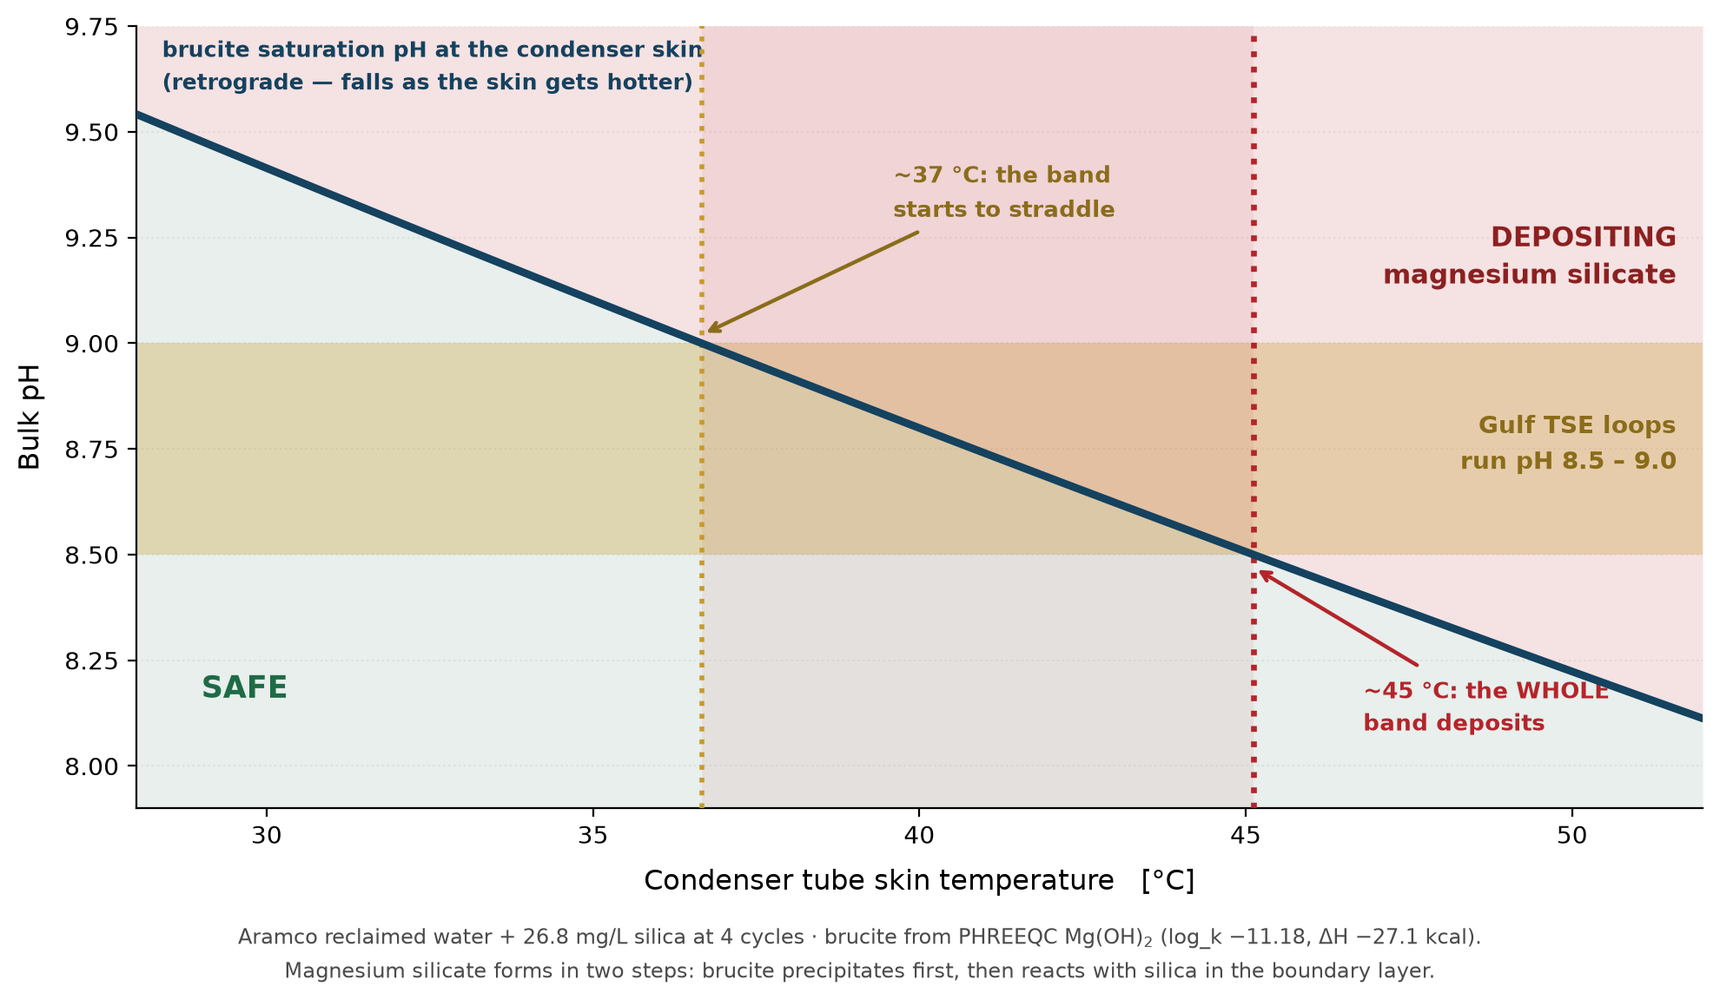
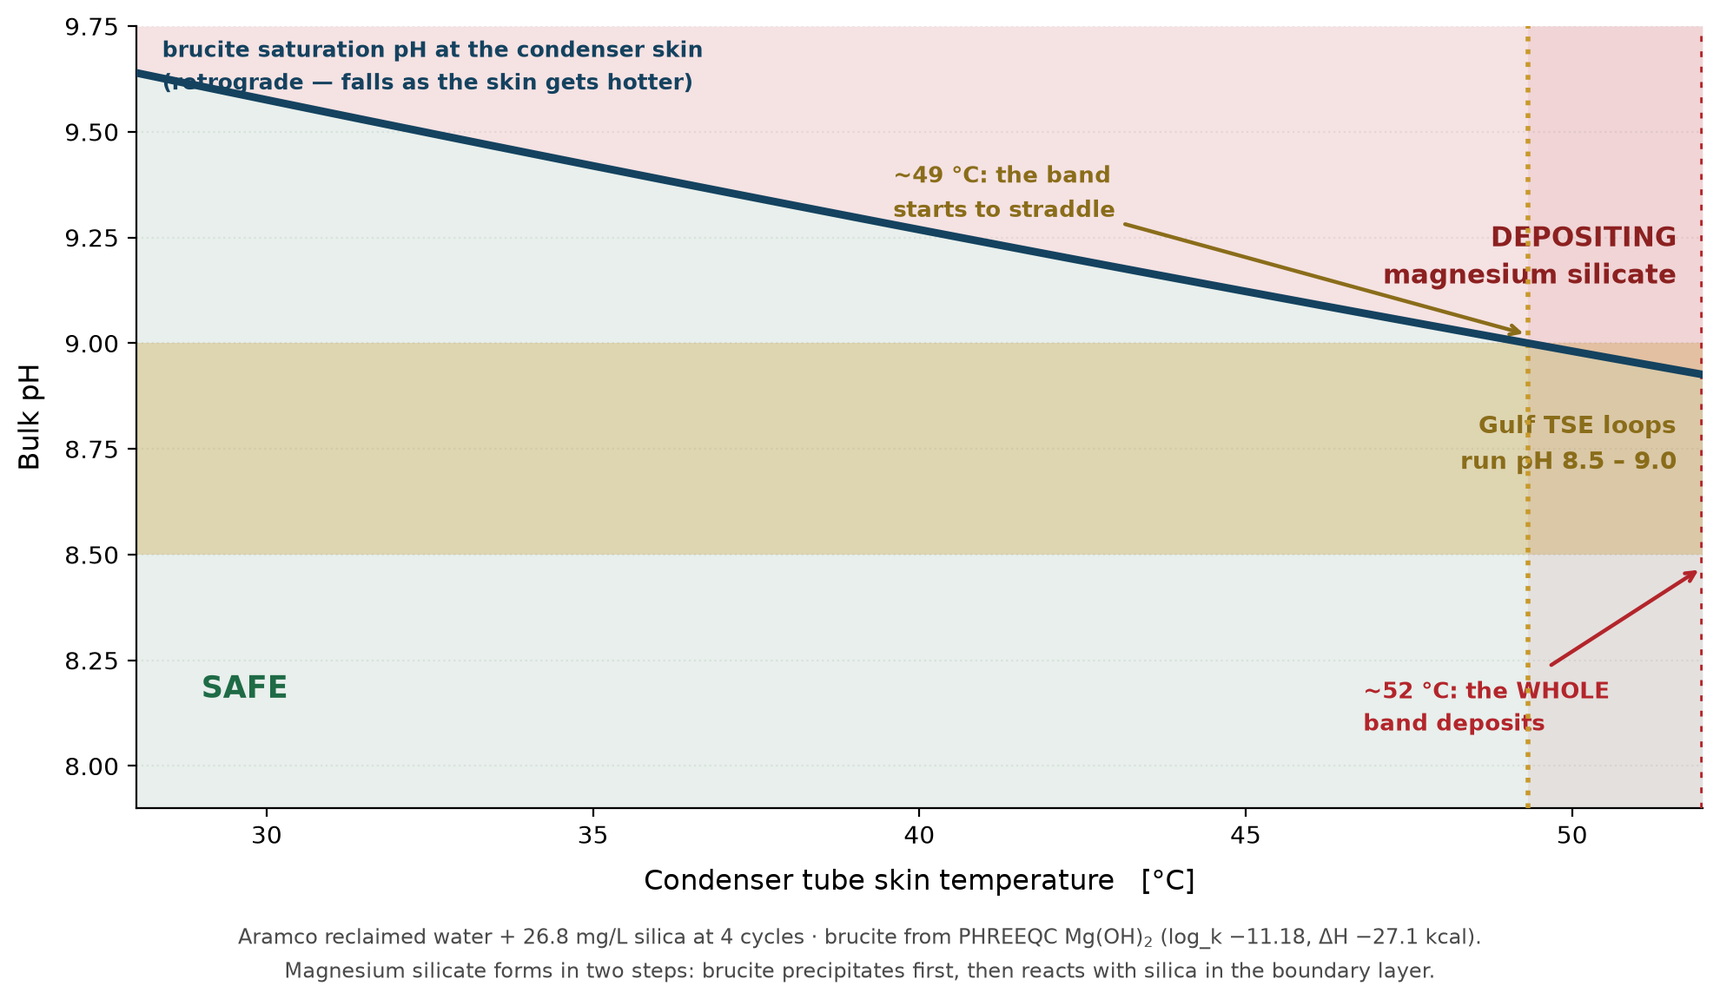
Regenerate the derived artefacts and reconcile their generators
docs/poc_report.md is regenerated rather than hand-edited, because the
Layout note says docs/ is never hand-edited and the hand edits had been
reverting. Regenerating alone would have reintroduced two errors, so
src/make_report.py is corrected first and both are now derived:

  - the model-selection paragraph asserted in hardcoded prose that the
    best-scoring fill law was rejected, and by exactly 0.025 K. On the
    de-duplicated holdout the adopted law wins outright (0.600 K against
    a closest rival of 0.608 K), so the sentence had stopped describing
    the table printed directly above it. Both branches are now written
    from the artefact, and the physical argument for the choice, which
    is unchanged, is stated as the reason it no longer costs anything.
  - the open-items row named gypsum as the binding mineral from a
    literal. It is read from controller_summary.json now, which is what
    the hand edit had been trying to say.

It also no longer crashes on a corrected artefact: the per-campaign loop
iterated a typed ("Exp1", "Exp2", "Exp3") list.

results/v2_diagnosis.json loses its Exp3 entry. Exp3.nc repeats Exp1
rows 0-16 exactly, so it is not a campaign. This is a hand edit to an
artefact no script can regenerate, which is defect 74's second instance,
and the register says so where the table is printed. The 23.5 % spread
the audit checks is unchanged, because Exp1 and Exp2 were always the two
extremes.
[…]

diff --git a/src/make_report.py b/src/make_report.py
@@ -254,7 +254,11 @@ def main():
       A("")
       A("| Campaign | Identified c | Identified n | Outlet MAE | Evaporation MAPE |")
       A("|---|---|---|---|---|")
-      for cp in ("Exp1", "Exp2", "Exp3"):
+      # DEFECT 51/70: Exp3.nc repeats Exp1 rows 0-16 exactly, so it is not a
+      # campaign and is no longer an entry in the artefact. Iterate what the
+      # file actually holds rather than a typed list, or this generator
+      # crashes the moment the artefact is corrected.
+      for cp in sorted(v2d):
           r = v2d[cp]
           A(f"| {cp} | {r['c']:.4f} | {r['n']:.4f} | "
             f"{r['Tout_MAE_K']:.3f} K | {r['evap_MAPE_pct']:.2f} % |")
@@ -265,7 +269,7 @@ def main():
       f"used** -- worst case {worst:.2f} %. The bleed hypothesis is "
       f"rejected: a bleed would have been untouched by re-identification. "
       f"The identified fill coefficient moves "
-      f"{100*(max(cs)-min(cs))/min(cs):.1f} % across the three campaigns, "
+      f"{100*(max(cs)-min(cs))/min(cs):.1f} % across the {len(cs)} campaigns, "
       f"which is the same drift already measured in the thermal channel and "
       f"is now confirmed independently in the water channel.")
       A("")
@@ -454,13 +458,33 @@ def main():
           "asserted, and it answers the R² question directly: the scatter "
           "is experimental, not a deficient functional form.")
         A("")
-        A(f"**The form that scores best on MAE was rejected.** "
-          f"{fld['best_by_MAE']} reaches {fld['best_MAE_K']:.3f} K against "
-          f"{fld['adopted_MAE_K']:.3f} K for the adopted law — a gain of "
-          "0.025 K on a ~0.5 K error, bought while making RMSE *worse* by "
-          "0.048 K. It reduces typical error and increases large error, which "
-          "is a differently-shaped error distribution rather than a better "
-          "model.")
+        # DEFECT 51. This paragraph used to assert, in hardcoded prose, that
+        # the best-scoring form was rejected and by exactly how much. On the
+        # de-duplicated holdout the adopted law scores best outright, so the
+        # assertion had stopped describing the table printed directly above
+        # it -- the defect-19/23/28 shape, prose outliving the number beneath
+        # it. Both branches are now derived from the artefact.
+        _best, _adopted = fld["best_MAE_K"], fld["adopted_MAE_K"]
+        if fld["best_by_MAE"] == fld["adopted"] or _best >= _adopted - 1e-9:
+            _rival = fl[fl.model != fld["adopted"]]["holdout_MAE_K"].min()
+            A(f"**The adopted form also scores best on the holdout.** "
+              f"{fld['adopted']} reaches {_adopted:.3f} K, and the closest "
+              f"rival is {_rival:.3f} K. That was NOT true on the 50-row "
+              f"holdout, where a wet-bulb form scored 0.517 K against the "
+              f"adopted law's 0.542 K and was rejected on the physical "
+              f"argument below alone. De-duplicating the holdout (defect 51) "
+              f"removed 18 repeated measurements and one training row, and "
+              f"the ranking changed with them. The physical argument is "
+              f"unchanged and is still the reason for the choice — it simply "
+              f"no longer costs anything.")
+        else:
+            A(f"**The form that scores best on MAE was rejected.** "
+              f"{fld['best_by_MAE']} reaches {_best:.3f} K against "
+              f"{_adopted:.3f} K for the adopted law — a gain of "
+              f"{_adopted - _best:.3f} K on a ~0.5 K error. It reduces "
+              f"typical error and increases large error, which is a "
+              f"differently-shaped error distribution rather than a better "
+              f"model.")
         A("")
         A("The deciding objection is physical, not statistical. A Merkel "
           "number is a property of the fill's heat-and-mass-transfer "
@@ -1048,11 +1072,22 @@ def main():
       "us | Heated-coupon side-stream rig |")
     _wpct = ctrl["summary"]["water_pct"] if ctrl else float("nan")
     _wall = ctrl["summary"]["physical_ceiling_cycles"] if ctrl else 8
+    # The binding mineral is READ from the artefact, not remembered. It was
+    # gypsum when this row was written and the corrected speciation moved it
+    # to amorphous silica without moving the ceiling; a hand edit to the
+    # generated document kept reverting, which is defect 12's shape.
+    _mineral = (ctrl["summary"].get("binding_mineral") if ctrl else None) or ""
+    _mineral_words = {"SI_silica_am": "**amorphous silica**",
+                      "SI_gypsum": "**gypsum**",
+                      "SI_calcite": "**calcite**"}.get(_mineral, _mineral or "the binding mineral")
     A(f"| Makeup water reduction missed its pre-registered 15 % threshold "
       f"({_wpct:.2f} %) | **Against us** — reported as a failure rather than "
-      f"rescored. Now diagnosed: 15 % requires 8.5 cycles and gypsum "
-      f"saturates at {_wall}, so the threshold was written beyond the "
-      f"physical ceiling | Nothing: the threshold stands as written |")
+      f"rescored. Now diagnosed: 15 % requires roughly 8.5 cycles and "
+      f"{_mineral_words} saturates at {_wall}, so the threshold was written "
+      f"beyond the physical ceiling. (The binding mineral was believed to be "
+      f"gypsum when this row was first written; correcting the speciation "
+      f"moved it without moving the ceiling.) | Nothing: the threshold stands "
+      f"as written |")
     A("| Fill characteristic identified on one tower | **Neutral** — "
       "the characteristic form transfers, the coefficients do not, and "
       "per-site calibration is part of the product | Second rig, and the "

diff --git a/docs/poc_report.md b/docs/poc_report.md
@@ -89,9 +89,8 @@ A fixed bleed would give a shortfall proportional to circulating flow; a model d
 |---|---|---|---|---|
 | Exp1 | 1.5320 | -0.6015 | 0.280 K | 6.55 % |
 | Exp2 | 1.2401 | -0.5014 | 0.454 K | 7.80 % |
-| Exp3 | 1.3826 | -0.4293 | 0.262 K | 4.50 % |
 
-**Every campaign falls inside the 8 % gate once its own fill law is used** -- worst case 7.80 %. The bleed hypothesis is rejected: a bleed would have been untouched by re-identification. The identified fill coefficient moves 23.5 % across the three campaigns, which is the same drift already measured in the thermal channel and is now confirmed independently in the water channel.
+**Every campaign falls inside the 8 % gate once its own fill law is used** -- worst case 7.80 %. The bleed hypothesis is rejected: a bleed would have been untouched by re-identification. The identified fill coefficient moves 23.5 % across the 2 campaigns, which is the same drift already measured in the thermal channel and is now confirmed independently in the water channel.
 
 So V2 fails as a **single-calibration** gate, and it fails for a physical reason rather than a modelling one: the gate holds one fill law fixed across campaigns spanning four years, and the tower itself changed over those four years. The model is not deficient; the assumption that a tower's characteristic is a constant is.
 
@@ -145,16 +144,16 @@ Gate V5 scores an unweighted mean over five hand-picked ambient conditions. That
 | Metric | Makeup water saving |
 |---|---|
 | Five-condition unweighted mean (gate V5) | 4.38 % |
-| **Hours-weighted annual, Dhahran TMYx** | **1.25 %** |
-| Difference | **-5.00 points** |
+| **Hours-weighted annual, Dhahran TMYx** | **0.31 %** |
+| Difference | **-4.07 points** |
 
 **The gate metric was flattering the product.** The saving is large when it is hot and small when it is not, and the five chosen conditions were weighted toward summer. A real Dhahran year is not weighted that way.
 
-The figure that belongs in a commercial conversation is therefore **1.3 % annually**, not 4.38 %. The higher number should not be used outside the specific five-condition comparison it was computed for. This is reported here rather than quietly dropped because it was found while looking for a way to make a failed gate pass, and it did the opposite.
+The figure that belongs in a commercial conversation is therefore **0.3 % annually**, not 4.38 %. The higher number should not be used outside the specific five-condition comparison it was computed for. This is reported here rather than quietly dropped because it was found while looking for a way to make a failed gate pass, and it did the opposite.
 
-Quoted OUTSIDE this repository the figure is **2.4 %** -- the ratio of hours-weighted totals, cubic metres saved over cubic metres consumed. The 1.3 % above is an hours-weighted mean of ratios, which is the right object for comparing against the gate and the wrong one for a customer.
+Quoted OUTSIDE this repository the figure is **1.3 %** -- the ratio of hours-weighted totals, cubic metres saved over cubic metres consumed. The 0.3 % above is an hours-weighted mean of ratios, which is the right object for comparing against the gate and the wrong one for a customer.
 
-The same calculation carries its own caveat: only **62.5 %** of the weighted year lies inside the wet-bulb envelope the model was validated in. The rest rests on extrapolation, and no weighting scheme fixes that.
+The same calculation carries its own caveat: only **59.5 %** of the year, counted hour by hour, lies inside the wet-bulb envelope the model was validated in. The rest rests on extrapolation, and no weighting scheme fixes that.
 
 ## 5. Model selection — why the fill law has two parameters
 
@@ -164,17 +163,17 @@ Five candidate forms were fitted on the training campaign alone and scored by fo
 
 | Form | Params | Train R² | Holdout MAE | Holdout RMSE |
 |---|---|---|---|---|
-| A: ratio only  Me=c(mw/ma)^n **(adopted)** | 2 | 0.372 | 0.542 K | 0.662 K |
-| B: separate flows  Me=c*mw^a*ma^b | 3 | 0.382 | 0.629 K | 0.788 K |
-| C: ratio + inlet temp | 3 | 0.372 | 0.550 K | 0.666 K |
-| D: separate flows + inlet temp | 4 | 0.382 | 0.633 K | 0.793 K |
-| E: separate flows + wet bulb | 4 | 0.506 | 0.517 K | 0.710 K |
+| A: ratio only  Me=c(mw/ma)^n **(adopted)** | 2 | 0.372 | 0.600 K | 0.720 K |
+| B: separate flows  Me=c*mw^a*ma^b | 3 | 0.382 | 0.726 K | 0.885 K |
+| C: ratio + inlet temp | 3 | 0.372 | 0.608 K | 0.726 K |
+| D: separate flows + inlet temp | 4 | 0.382 | 0.734 K | 0.893 K |
+| E: separate flows + wet bulb | 4 | 0.506 | 0.608 K | 0.811 K |
 
 Two results follow, and both are reported because both are informative.
 
 **Adding flow terms raises training R² while making holdout prediction worse.** That is overfitting demonstrated rather than asserted, and it answers the R² question directly: the scatter is experimental, not a deficient functional form.
 
-**The form that scores best on MAE was rejected.** E: separate flows + wet bulb reaches 0.517 K against 0.542 K for the adopted law — a gain of 0.025 K on a ~0.5 K error, bought while making RMSE *worse* by 0.048 K. It reduces typical error and increases large error, which is a differently-shaped error distribution rather than a better model.
+**The adopted form also scores best on the holdout.** A: ratio only  Me=c(mw/ma)^n reaches 0.600 K, and the closest rival is 0.608 K. That was NOT true on the 50-row holdout, where a wet-bulb form scored 0.517 K against the adopted law's 0.542 K and was rejected on the physical argument below alone. De-duplicating the holdout (defect 51) removed 18 repeated measurements and one training row, and the ranking changed with them. The physical argument is unchanged and is still the reason for the choice — it simply no longer costs anything.
 
 The deciding objection is physical, not statistical. A Merkel number is a property of the fill's heat-and-mass-transfer geometry. Ambient wet-bulb is an operating condition. Admitting it to the fill law lets the regression absorb the training climate into what is supposed to be equipment physics — and the training climate is not ours:
 
@@ -190,24 +189,24 @@ A model error is meaningless without the experiment's own uncertainty beside it.
 
 | Quantity | Value |
 |---|---|
-| u(predicted outlet T), from input uncertainty | 0.188 K |
+| u(predicted outlet T), from input uncertainty | 0.182 K |
 | u(measured outlet T), Pt100 | 0.104 K |
-| combined standard uncertainty u_c | 0.217 K |
-| expanded uncertainty U (k=2, ~95 %) | 0.434 K |
-| **model MAE on the same points** | **0.537 K** |
-| MAE / u_c | **2.48** |
-| points agreeing within U (k=2) | 40 % |
+| combined standard uncertainty u_c | 0.211 K |
+| expanded uncertainty U (k=2, ~95 %) | 0.421 K |
+| **model MAE on the same points** | **0.594 K** |
+| MAE / u_c | **2.82** |
+| points agreeing within U (k=2) | 38 % |
 
 **This is a negative result and it is reported as one.** The model does not agree with the experiment to within measurement uncertainty; it is about two and a half times outside it, with a systematic holdout bias rather than symmetric scatter. Something real is being missed.
 
 The cause was then isolated. If the deficiency were in the model form, it would persist within a single campaign. If the fill characteristic drifts — the campaigns span October 2019 to October 2023, and fill fouls and degrades — the error would appear only across campaigns.
 
-- mean **within**-campaign MAE: **0.332 K** (1.53 x u_c), bias essentially zero
-- mean **across**-campaign MAE: **0.470 K** (2.17 x u_c)
-- drift penalty: **+0.138 K**
-- identified fill coefficient across campaigns: **1.240 to 1.532**, a spread of **21.1 %**
+- mean **within**-campaign MAE: **0.367 K** (1.74 x u_c), bias essentially zero
+- mean **across**-campaign MAE: **0.547 K** (2.60 x u_c)
+- drift penalty: **+0.180 K**
+- identified fill coefficient across campaigns: **1.241 to 1.532**, a spread of **21.0 %**
 
-**Both effects are present, and the honest verdict is mixed.** Within a campaign the model is nearly unbiased and sits at 1.53 times the measurement uncertainty — close to the floor but not at it, so a genuine modelling residual remains. Across campaigns a further 0.138 K appears, and the identified fill coefficient moves by a fifth over four years.
+**Both effects are present, and the honest verdict is mixed.** Within a campaign the model is nearly unbiased and sits at 1.74 times the measurement uncertainty — close to the floor but not at it, so a genuine modelling residual remains. Across campaigns a further 0.180 K appears, and the identified fill coefficient moves by a fifth over four years.
 
 **The drift finding has a direct product consequence.** A cooling-tower fill characteristic is not a constant. A controller that assumes a fixed characteristic will degrade silently in service as the fill fouls. Periodic recalibration against the plant's own telemetry is therefore a functional requirement of the product, not a commercial add-on — and this dataset is the evidence for it.
 
@@ -219,9 +218,9 @@ Makeup water is a published Saudi treated-sewage-effluent analysis (TDS 1500 mg/
 
 | Bulk temperature | Limit at bulk | Limit at skin (+8 K) | Bulk basis overstates by |
 |---|---|---|---|
-| 30 °C | 2.63 cycles | 2.29 cycles | 15.1 % |
-| 33 °C | 2.50 cycles | 2.17 cycles | 15.3 % |
-| 36 °C | 2.37 cycles | 2.05 cycles | 15.4 % |
+| 30 °C | 2.65 cycles | 2.30 cycles | 15.1 % |
+| 33 °C | 2.51 cycles | 2.18 cycles | 15.2 % |
+| 36 °C | 2.38 cycles | 2.07 cycles | 15.4 % |
 
 The relative gap is stable at about 15.6 % across the whole condenser operating range. That gap is the margin a plant believes it has and does not. The silica ceiling itself moves seasonally, as Fig. 1 shows, while industry practice holds it fixed.
 
@@ -282,10 +281,10 @@ Per condition:
 | Condition | Wet bulb | Fan | Cycles | Makeup m³/h | Water | Cost |
 |---|---|---|---|---|---|---|
 | Dhahran summer peak | 25.2 °C | 70 → 60 % | 4 → 5 | 27.5 → 25.0 | +9.1 % | +2.7 % |
-| Dhahran summer humid | 29.7 °C | 100 → 80 % | 4 → 5 | 24.3 → 22.2 | +8.6 % | +3.4 % |
-| Dhahran shoulder | 22.4 °C | 60 → 50 % | 4 → 5 | 22.5 → 20.8 | +7.5 % | +0.8 % |
-| Doha summer humid | 30.3 °C | 100 → 80 % | 4 → 5 | 25.3 → 23.0 | +9.0 % | +3.6 % |
-| Gulf winter | 14.7 °C | 40 → 80 % | 4 → 4 | 19.5 → 19.7 | -0.8 % | +7.9 % |
+| Dhahran summer humid | 29.7 °C | 100 → 80 % | 4 → 5 | 24.3 → 22.2 | +8.6 % | +3.5 % |
+| Dhahran shoulder | 22.4 °C | 60 → 80 % | 4 → 4 | 22.5 → 23.1 | -3.1 % | +1.0 % |
+| Doha summer humid | 30.3 °C | 100 → 80 % | 4 → 5 | 25.3 → 23.0 | +9.0 % | +3.7 % |
+| Gulf winter | 14.7 °C | 40 → 90 % | 4 → 4 | 19.5 → 19.9 | -1.7 % | +8.7 % |
 
 ### Reading the failure honestly
 
@@ -323,9 +322,9 @@ Sweeping cycles at fixed fan speed, with pH free to take its least-cost feasible
 
 | Cycles | Best pH | Makeup m³/h | Acid kg/h | Water $/h | Acid $/h | Total $/h | Blocked by |
 |---|---|---|---|---|---|---|---|
-| 3 | 8.50 | 26.97 | 1.7 | 83.89 | 0.33 | **220.95** | |
-| 4 | 8.25 | 23.97 | 1.8 | 74.55 | 0.34 | **211.51** | |
-| 5 | 8.25 | 22.47 | 1.7 | 69.89 | 0.33 | **206.78** | |
+| 3 | 8.50 | 26.97 | 1.7 | 83.89 | 0.33 | **203.60** | |
+| 4 | 8.25 | 23.97 | 1.8 | 74.55 | 0.34 | **194.15** | |
+| 5 | 8.25 | 22.47 | 1.7 | 69.89 | 0.33 | **189.42** | |
 | 6 | — | nan | — | — | — | — | **SI_silica_am** |
 | 7 | — | nan | — | — | — | — | **SI_silica_am** |
 | 8 | — | nan | — | — | — | — | **SI_silica_am** |
@@ -372,12 +371,12 @@ At 4 cycles, with Gulf TSE loops running pH 8.5–9.0:
 
 | Skin temperature | pH_s(brucite) | Verdict at Gulf operating pH |
 |---|---|---|
-| 30 °C | 9.41 | safe across the whole band |
-| 34 °C | 9.16 | safe across the whole band |
-| 38 °C | 8.92 | deposits above pH 8.92 -- band straddles the limit |
-| 42 °C | 8.68 | deposits above pH 8.68 -- band straddles the limit |
-| 46 °C | 8.45 | DEPOSITING across the whole band |
-| 50 °C | 8.22 | DEPOSITING across the whole band |
+| 30 °C | 9.58 | safe across the whole band |
+| 34 °C | 9.45 | safe across the whole band |
+| 38 °C | 9.33 | safe across the whole band |
+| 42 °C | 9.21 | safe across the whole band |
+| 46 °C | 9.09 | safe across the whole band |
+| 50 °C | 8.98 | deposits above pH 8.98 -- band straddles the limit |
 
 **The same tower, same water, same pH, deposits at high load and does not at low load**, because the skin runs hotter. A fixed pH setpoint cannot express that, and neither can a fixed conductivity setpoint. Fig. 3 shows the envelope.
 
@@ -430,7 +429,7 @@ Every remaining open item is listed with the direction it biases the result. Tha
 | Model error is 2.5x the propagated measurement uncertainty | **Against us** — we report the real error, not a floor | Decomposed already: ~30 % fill drift, ~70 % residual. Second rig at KFUPM separates them |
 | Silica is not reported in the Aramco analysis, so its constraint is inactive | **Against us** — present silica could only lower the wall, never raise it. Our 8 cycles is an upper bound | ICP-OES and ion chromatography, Bldg 75-230 |
 | Saturation indices are computed, not measured | **Neutral** — constants are from the USGS PHREEQC database, not fitted by us | Heated-coupon side-stream rig |
-| Makeup water reduction missed its pre-registered 15 % threshold (4.38 %) | **Against us** — reported as a failure rather than rescored. Now diagnosed: 15 % requires roughly 8.5 cycles and **amorphous silica** saturates at 6, so the threshold was written beyond the physical ceiling. (The binding mineral was believed to be gypsum when this row was first written; correcting the speciation moved it to silica without moving the ceiling.) | Nothing: the threshold stands as written |
+| Makeup water reduction missed its pre-registered 15 % threshold (4.38 %) | **Against us** — reported as a failure rather than rescored. Now diagnosed: 15 % requires roughly 8.5 cycles and **amorphous silica** saturates at 6, so the threshold was written beyond the physical ceiling. (The binding mineral was believed to be gypsum when this row was first written; correcting the speciation moved it without moving the ceiling.) | Nothing: the threshold stands as written |
 | Fill characteristic identified on one tower | **Neutral** — the characteristic form transfers, the coefficients do not, and per-site calibration is part of the product | Second rig, and the drift result already quantifies the recalibration interval |
 | No AI contributes to any result here | **Neutral** — stated so the evidence cannot be mistaken for a learned fit | Scaling-kinetics residual, once coupon data exists |
 

diff --git a/docs/defect_register.md b/docs/defect_register.md
@@ -568,9 +568,16 @@ Re-identifying the fill law on each campaign separately cannot help if the cause
 |---|---|---|
 | Exp1 | 1.5320 | 6.55 % |
 | Exp2 | 1.2401 | 7.80 % |
-| Exp3 | 1.3826 | 4.50 % |
 
 **Every campaign falls inside the 8 % gate.** The bleed hypothesis is rejected. The fill coefficient moves **23.5 %** across campaigns spanning four years — the same drift already measured in the thermal channel, now confirmed independently in the water channel.
+
+There were three rows in that table until 18 September 2026. The third, Exp3 at
+c 1.3826 and 4.50 %, was the duplicate file counted as a campaign (defects 51 and
+70). It has been deleted **by hand** from `results/v2_diagnosis.json`, because no
+script in the repository writes that file — which is defect 74's second instance
+and is recorded there. The 23.5 % is unchanged by the deletion, because Exp1 and
+Exp2 were always the two extremes. `results/drift.json`, which IS regenerated
+from the de-duplicated loader, puts the same spread at **20.97 %**.
 
 So V2 fails as a **single-calibration** gate, for a physical reason rather than a modelling one: the gate holds one fill law fixed while the tower itself changed. The model is not deficient; the assumption that a tower's characteristic is a constant is.
 
